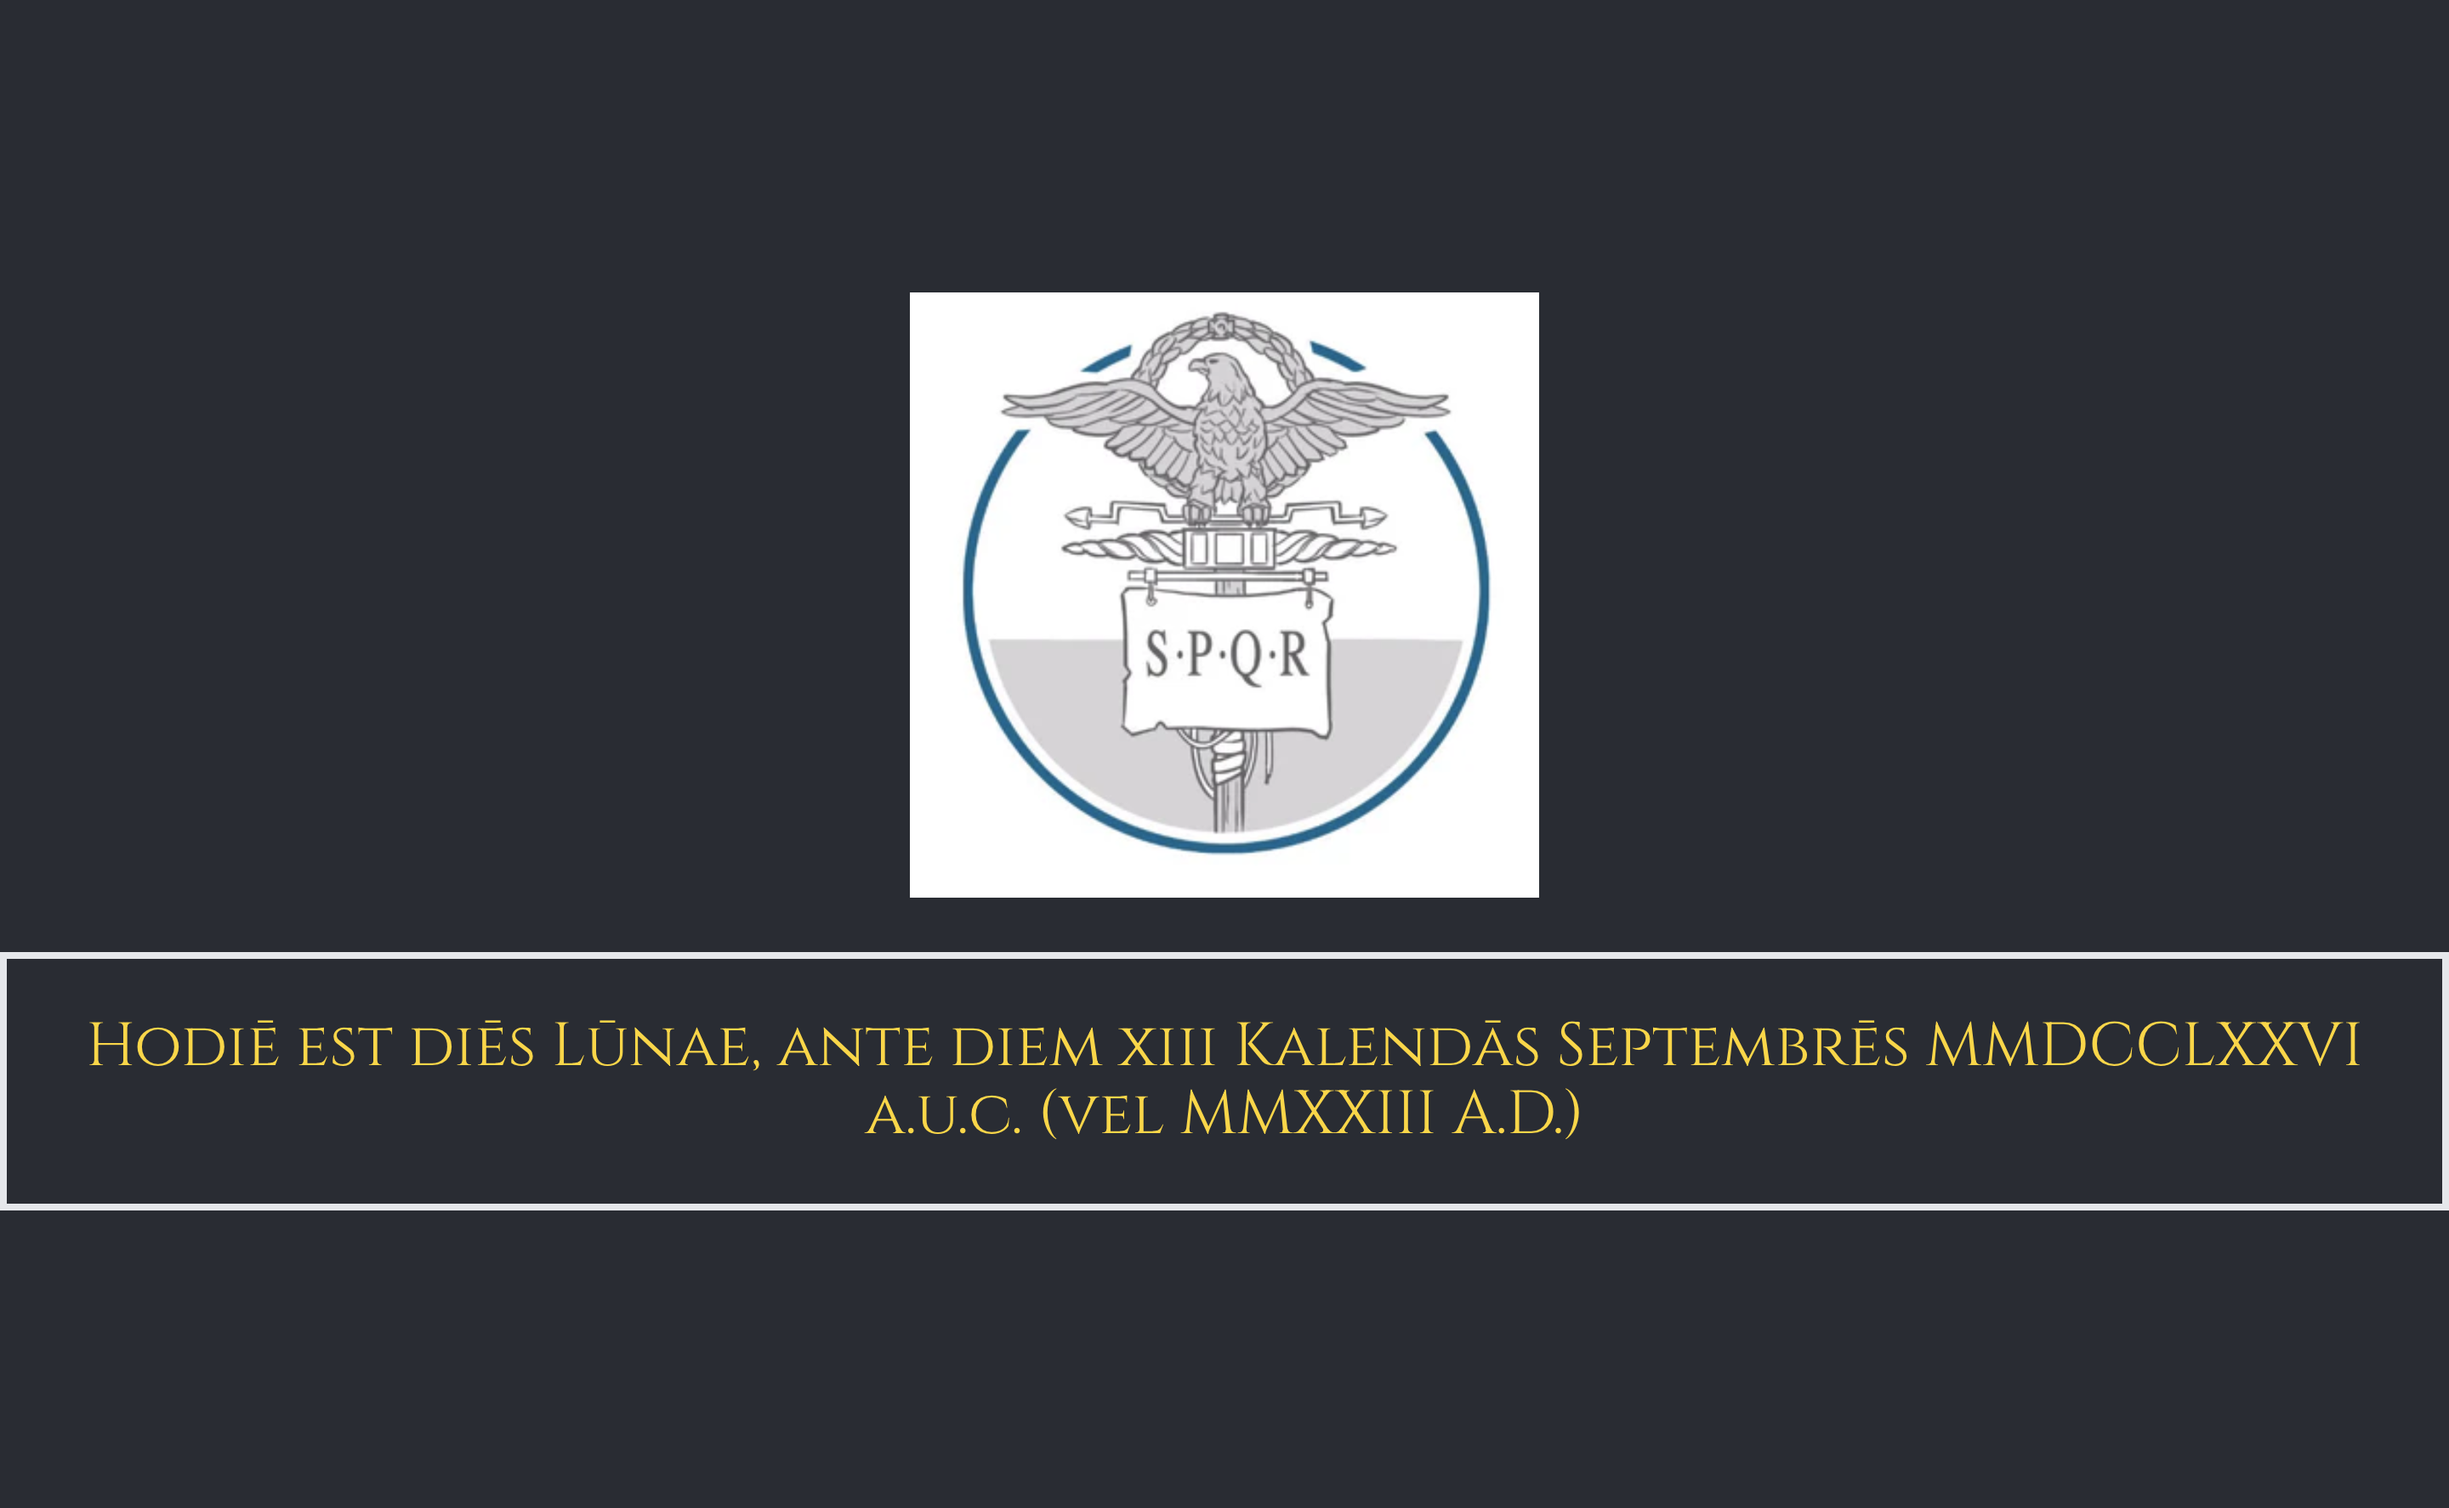
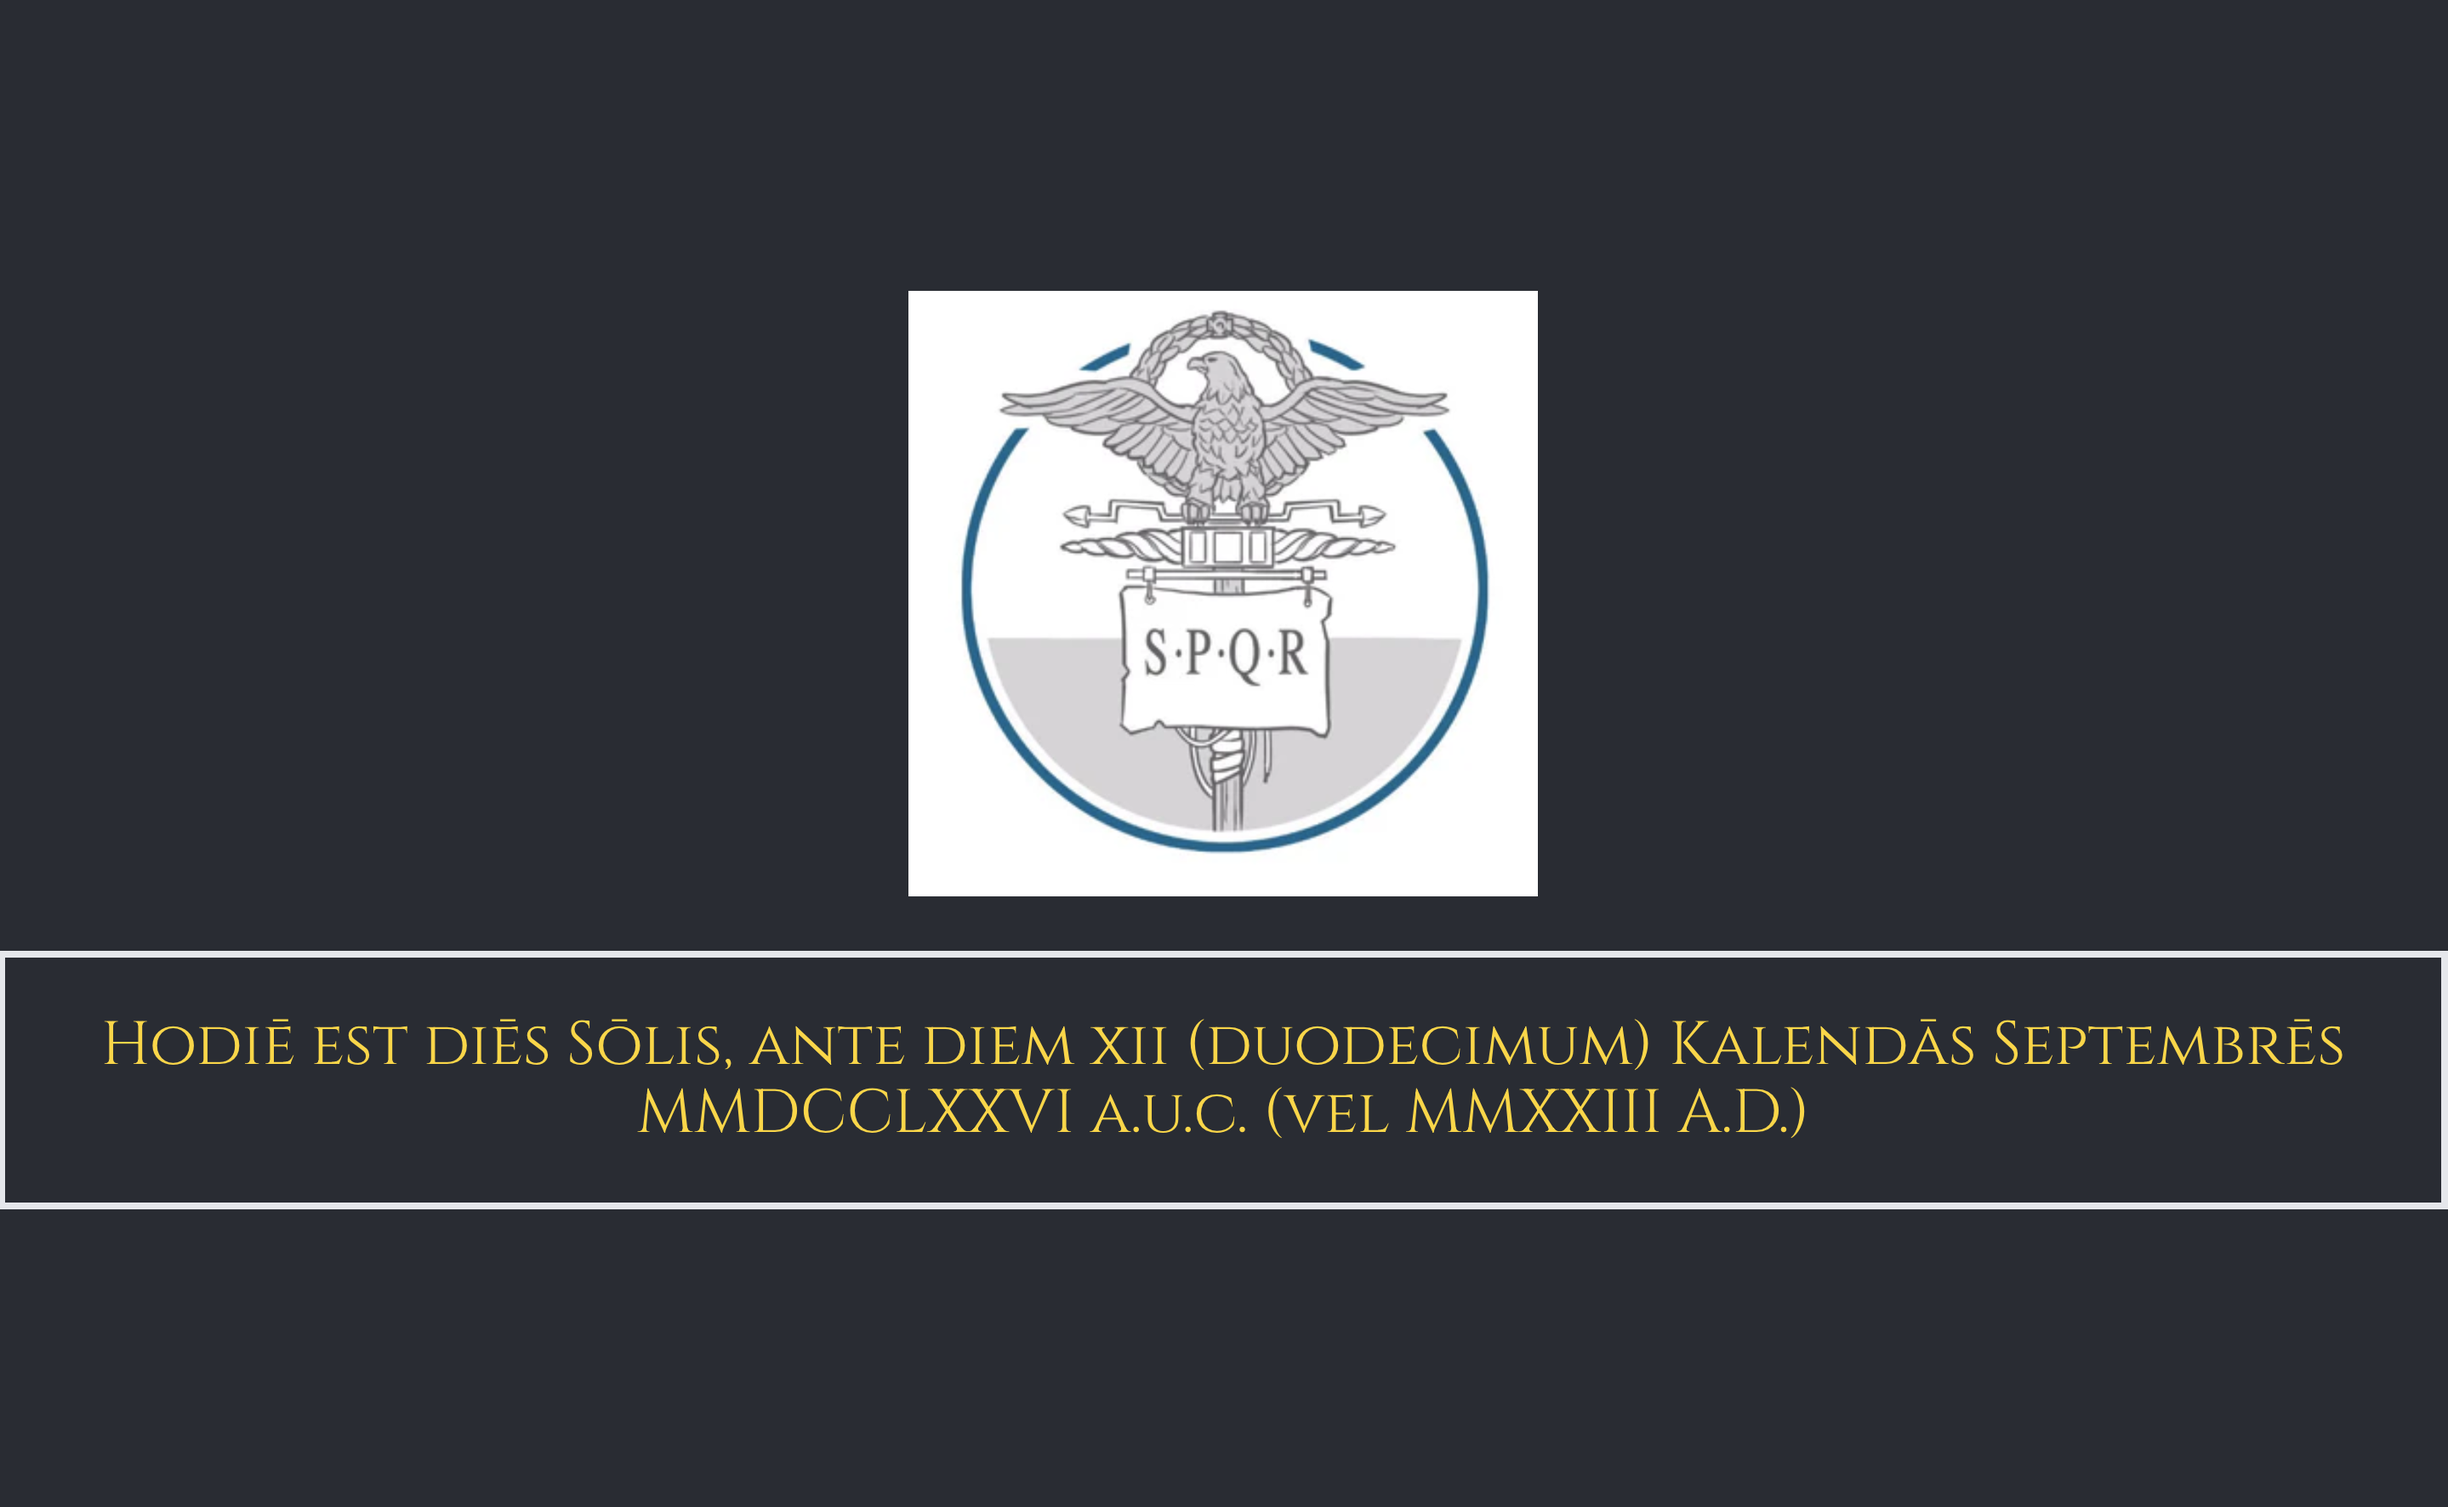
Refactor for readability, update readme, replace image

diff --git a/utils/getLatinDate.ts b/utils/getLatinDate.ts
@@ -21,9 +21,14 @@ export function getLatinDate(
 
   const ides = [3, 5, 7, 10].includes(month) ? 15 : 13;
   const nones = ides - 8;
+  const isPrīdiē =
+    day === nones - 1 ||
+    day === ides - 1 ||
+    day === getNumDaysForMonth(month, year) - 1;
   let latmon = "";
   let latindate = "";
 
+  // First case: we're exactly on the Kalends, Nones, or Ides
   if (day === 1) {
     latmon = getMonthInAblative(month);
     latindate = `Hodiē est ${latinDayOfWeek}, Kalendīs ${latmon} `;
@@ -33,27 +38,23 @@ export function getLatinDate(
   } else if (day === ides) {
     latmon = getMonthInAblative(month);
     latindate = `Hodiē est ${latinDayOfWeek}, Īdibus ${latmon} `;
-  } else if (day === nones - 1) {
+    // Second case: we're exactly on the day before the Kalends, Nones, or Ides
+  } else if (isPrīdiē) {
+    const isKalendās = day === getNumDaysForMonth(month, year) - 1;
+    const isNones = day === nones - 1;
+    const targetType = isKalendās ? "Kalendās" : isNones ? "Nōnās" : "Īdūs";
     latmon = getMonthInAccusative(month);
-    latindate = `Hodiē est ${latinDayOfWeek}, prīdiē Nōnās ${latmon} `;
-  } else if (day === ides - 1) {
-    latmon = getMonthInAccusative(month);
-    latindate = `Hodiē est ${latinDayOfWeek}, prīdiē Īdūs ${latmon} `;
-  } else if (day < nones) {
-    const num = nones - day + 1;
+    latindate = `Hodiē est ${latinDayOfWeek}, prīdiē ${targetType} ${latmon} `;
+    // Third case: we're approaching the Nones or Ides
+  } else if (day < nones || day < ides) {
+    const num = day < nones ? nones - day + 1 : ides - day + 1;
+    const targetType = day < nones ? "Nōnās" : "Īdūs";
     const romanNum = arabicToRomanNumerals(num).toLowerCase();
     const ordinalNum = ordinalMapping[romanNum];
     latmon = getMonthInAccusative(month);
-    latindate = `Hodiē est ${latinDayOfWeek}, ante diem ${romanNum} (${ordinalNum}) Nōnās ${latmon} `;
-  } else if (day < ides) {
-    const num = ides - day + 1;
-    const romanNum = arabicToRomanNumerals(num).toLowerCase();
-    const ordinalNum = ordinalMapping[romanNum];
-    latmon = getMonthInAccusative(month);
-    latindate = `Hodiē est ${latinDayOfWeek}, ante diem ${romanNum} (${ordinalNum}) Īdūs ${latmon} `;
-  } else if (day === getNumDaysForMonth(month, year) - 1) {
-    latmon = getMonthInAccusative(month + 1); // Next month
-    latindate = `Hodiē est ${latinDayOfWeek}, prīdiē Kalendās ${latmon} `;
+    latindate = `Hodiē est ${latinDayOfWeek}, ante diem ${romanNum} (${ordinalNum}) ${targetType} ${latmon} `;
+    // Fourth case: we're past the Nones and Ides, and are approaching the Kalends of the next month
+    // We have to count the day we are on, as well as the Kalends of the next month - count inclusively.
   } else {
     const numDays = getNumDaysForMonth(month, year);
     const num = numDays - day + 1; // +1 because we're counting the Kalends of the next month

diff --git a/src/assets/styles/tailwind.css b/src/assets/styles/tailwind.css
@@ -1,8 +1,6 @@
 @font-face {
   font-family: 'Cinzel';
-  src: url('/fonts/Cinzel-Regular.woff2') format('woff2'),
-       url('/fonts/Cinzel-Regular.woff') format('woff'),
-       url('/fonts/Cinzel-Regular.ttf') format('truetype');
+  src: url('/fonts/Cinzel-Regular.ttf') format('truetype');
   font-weight: normal;
   font-style: normal;
   font-display: swap;
@@ -10,9 +8,7 @@
 
 @font-face {
   font-family: 'Cinzel';
-  src: url('/fonts/Cinzel-Bold.woff2') format('woff2'),
-       url('/fonts/Cinzel-Bold.woff') format('woff'),
-       url('/fonts/Cinzel-Bold.ttf') format('truetype');
+  src: url('/fonts/Cinzel-Bold.ttf') format('truetype');
   font-weight: bold;
   font-style: normal;
   font-display: swap;

diff --git a/README.md b/README.md
@@ -11,7 +11,21 @@
 
 ## Intro <a name="intro"></a>
 
-At the moment, this extension is not in the Chrome store. To use it, you'll have to follow the instructions below, but then you'll have it even when you are not running `yarn dev`!
+This Chrome extension replaces your new tab with the image seen above. There's no better way to familiarize yourself with Latin ordinal numbers, days of the week, and monthly dates than to see them every day!
+
+Features:
+- Roman year (ab urbe condita)
+- Christian year
+- Day of the week
+- Select holidays
+- Ordinal numbering
+- Mācrōns everywhere (!)
+- and of course the Latin monthly dating system
+
+
+As a dev bonus, this repo now contains the most well-tested Latin date conversion utilities of any library anywhere - and in TypeScript, for maximum accessibility. You can read through it just to familiarize yourself with the Latin system. If there is interest I will break it out into a separate library.
+
+### Basics of Dates
 
 > Dates on the ides, nones and kalends are given in the ablative. Dates with ante are given in the accusative, so ante diem undecimum kalendas ianuarias. It's in the accusative because it expresses not the idea of being 'on' a certain day (like the ablative), but how long before the kalends it is.
 > This system uses inclusive counting, so ad xi kal ian is 22nd Dec.
@@ -21,9 +35,11 @@ At the moment, this extension is not in the Chrome store. To use it, you'll have
 Those rules taken verbatim from a post somewhere.
 ## Usage <a name="usage"></a>
 
+At the moment, this extension is not in the Chrome store. To use it, you'll have to follow the instructions below, but then you'll have it even when you are not running `yarn dev`!
+
 ### Setup <a name="setup"></a>
 1. Clone this repository.
-2. Run `yarn && yarn dev`
+2. Run `yarn && yarn dev` in a terminal after navigating to the directory
 3. Load Extension on Chrome
    1. Open - Chrome browser
    2. Access - chrome://extensions
@@ -35,9 +51,11 @@ Those rules taken verbatim from a post somewhere.
 
 
 # Credit <a name="credit"></a>
-- I relied heavily on ChatGPT to help me translate @nivek1985's [sterling bash script](https://github.com/nivek1385/latindate) into TS. I have used his work for several years - all credit to him! tibi grātiās agō et agimus!
+- I relied heavily on ChatGPT to help me translate @nivek1985's [sterling bash script](https://github.com/nivek1385/latindate) into TS. I have used his work for several years - all credit to him for everything in this repo! tibi grātiās agō et agimus!
 
 - [This website](https://www.dcode.fr/latin-date) helped me make test cases.
+
+- [Luke's posts here](https://www.textkit.com/greek-latin-forum/viewtopic.php?t=4386) helped me find an off-by-one error.
 
 - Many thanks for [extension boilerplate](https://github.com/JohnBra/vite-web-extension)
 
